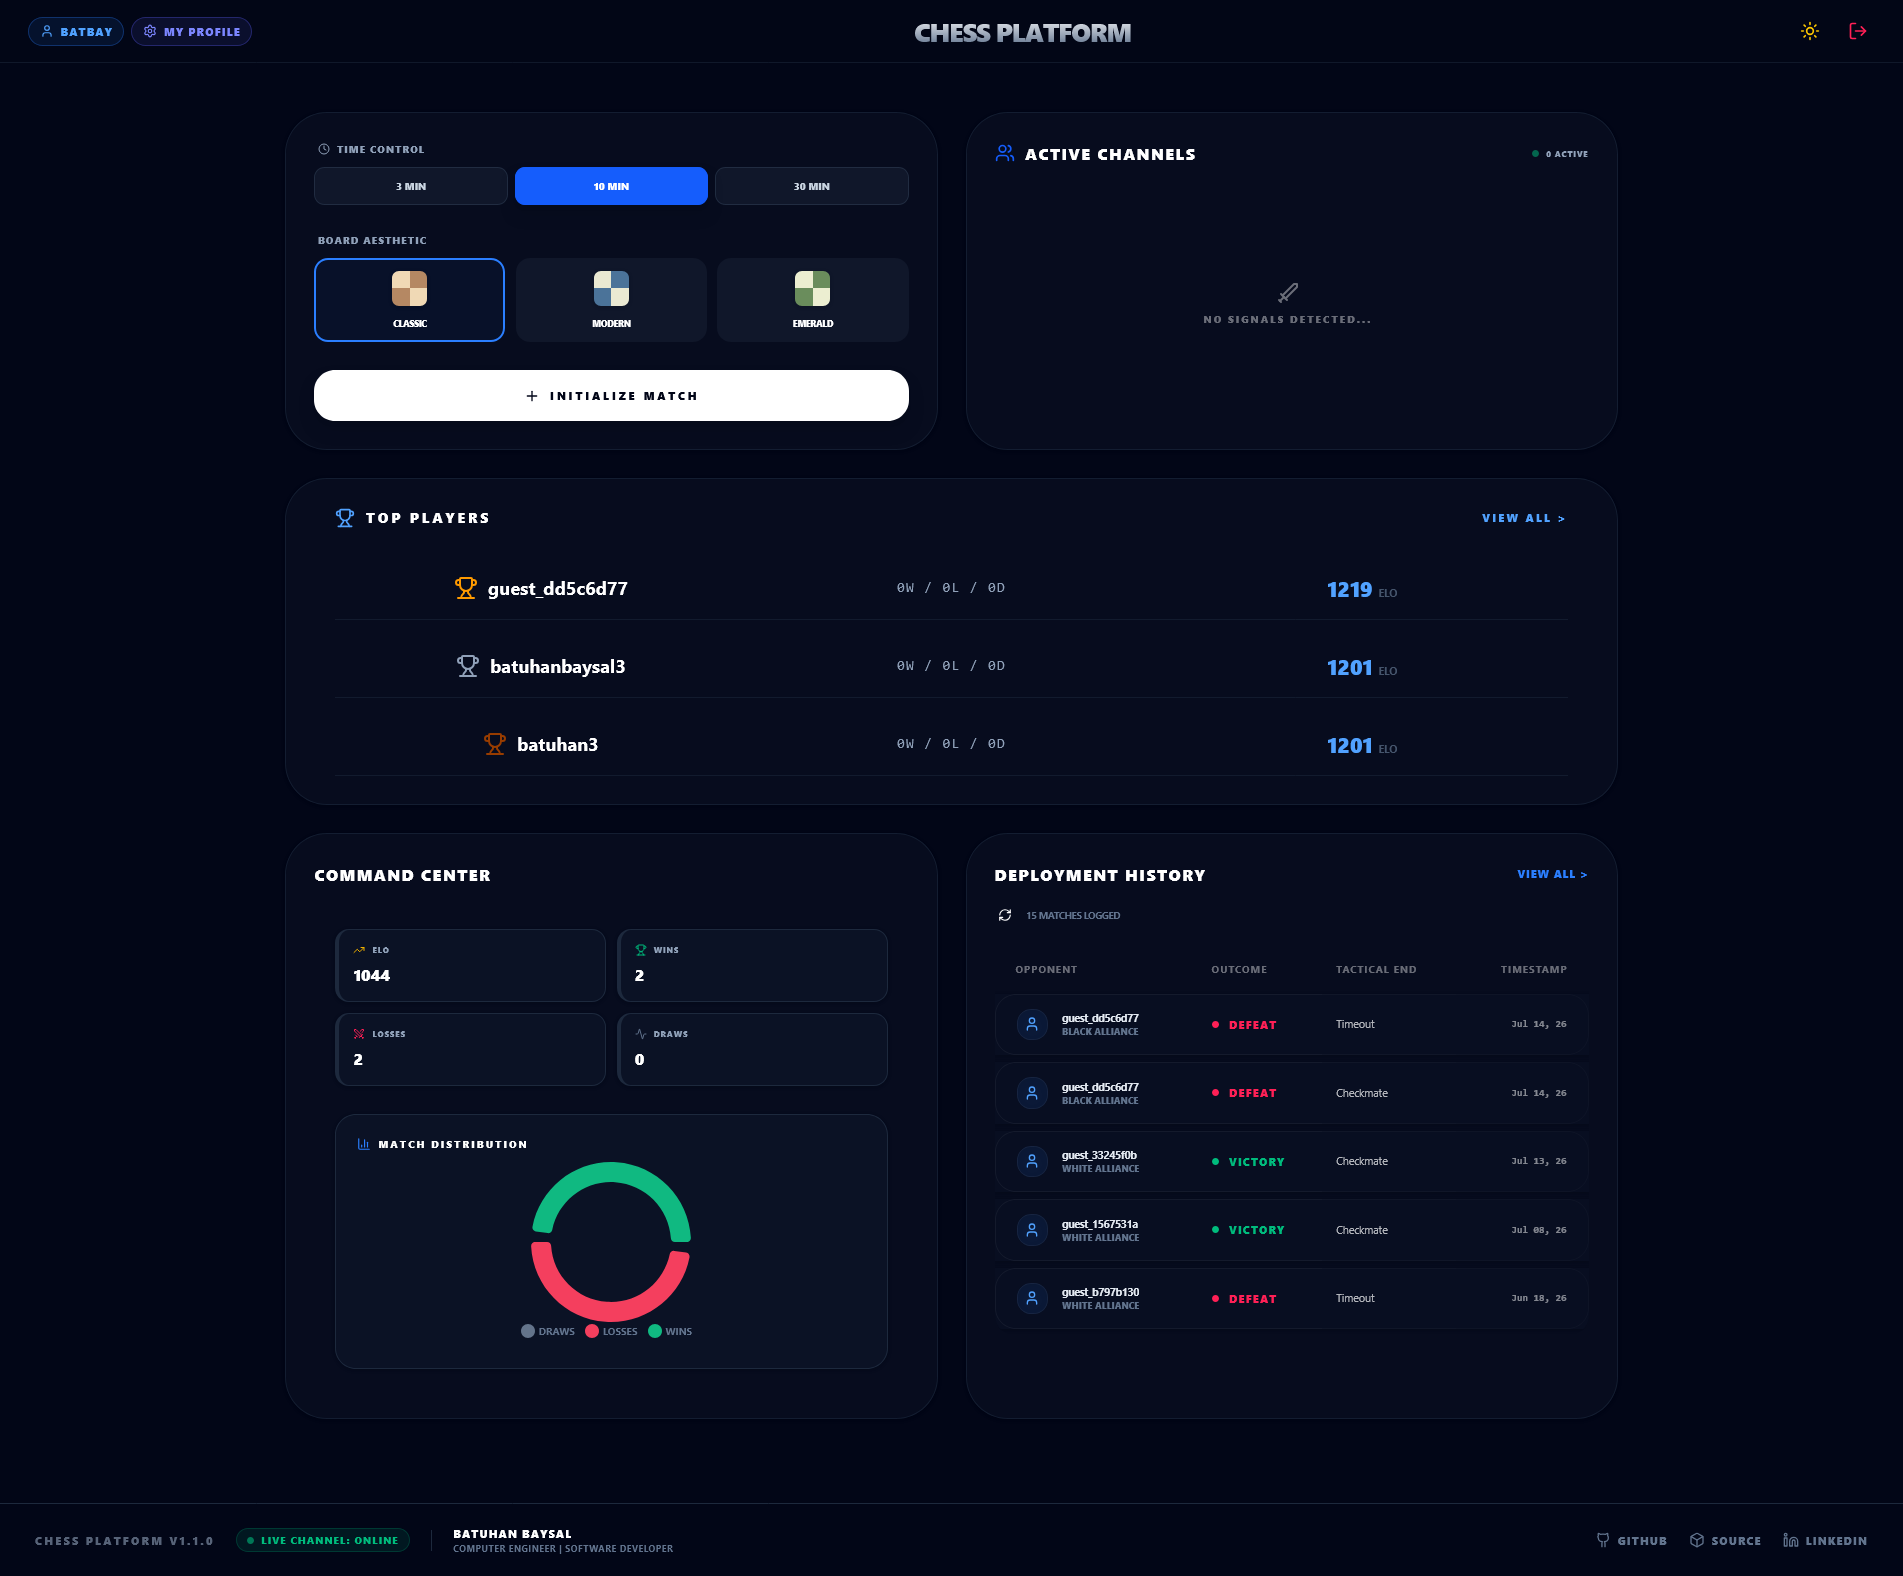
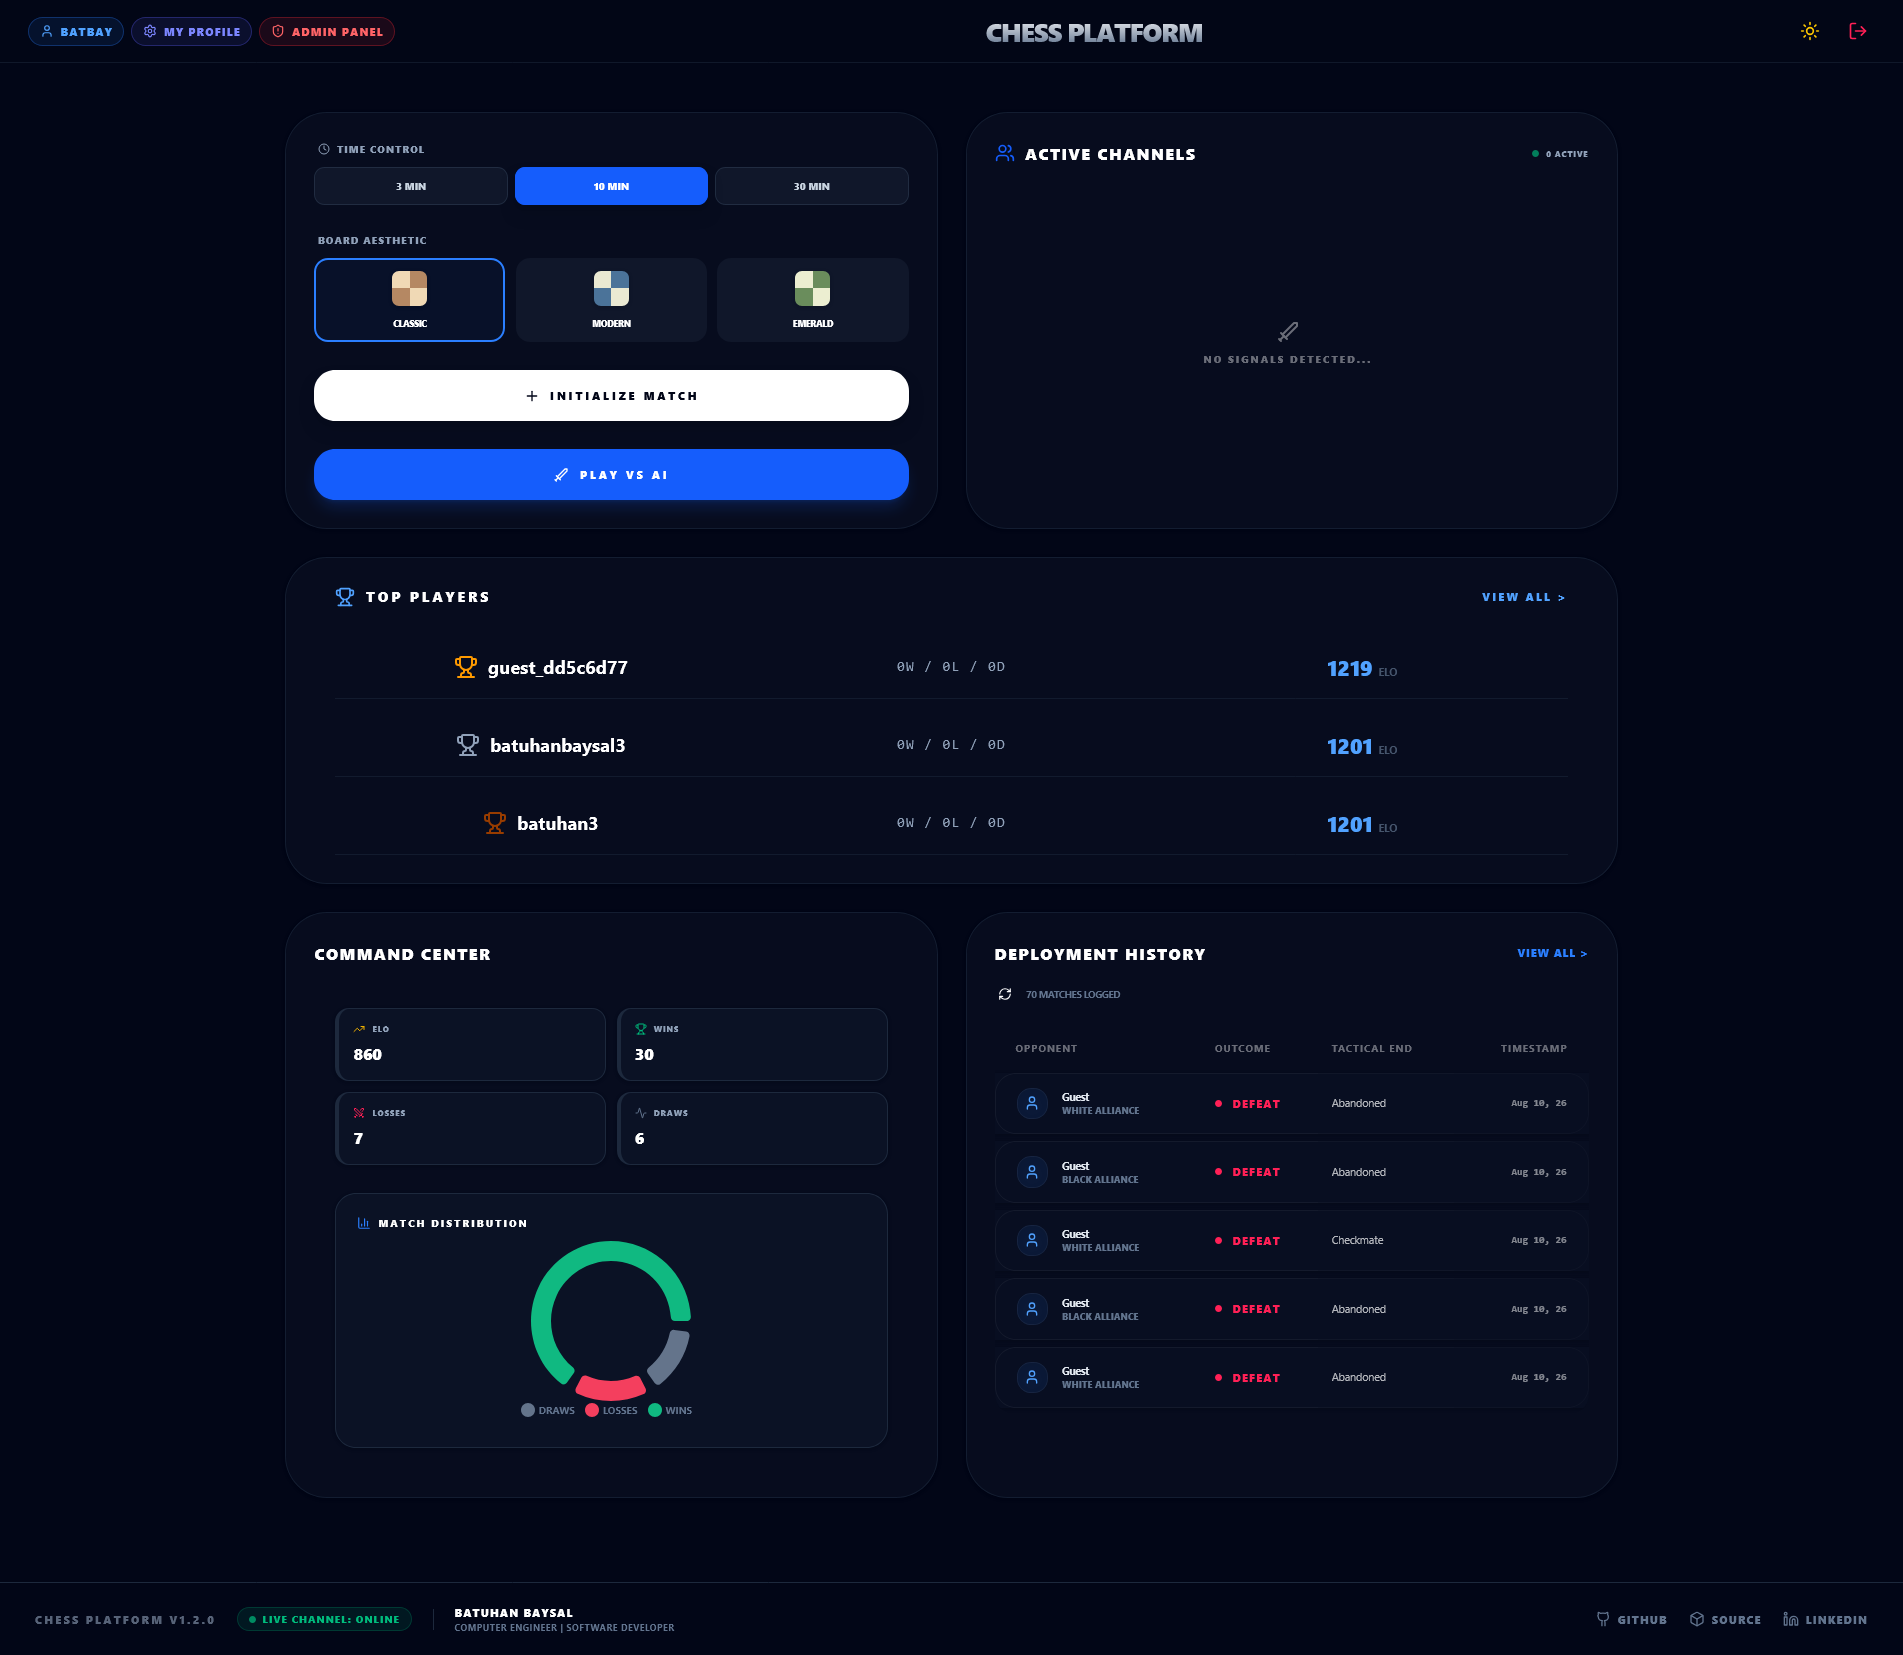
docs: update menu screenshots and changelog for AI play feature

diff --git a/docs/CHANGELOG.md b/docs/CHANGELOG.md
@@ -30,13 +30,20 @@ All notable changes to this project will be documented in this file. This projec
 
 ---
 
-## [2.0.0] - 2026-08-07
+## [2.0.0] - 2026-08-11
 
 ### 🚀 Phase 19: AI Integration & Training Ecosystem 🤖 (v2.0.0)
 > **Note:** Expanding the training ecosystem with automated computer opponent capabilities powered by the Stockfish chess engine.
 
+- **2026-08-11:**
+    - **Play vs AI Time Control & Enhancements (PR #115 | Issue #112):**
+        - Updated the `/api/games/vs-ai` backend endpoint and `GameService` to accept and enforce custom `timeLimit` parameters (e.g., 3, 10, or 30 minutes) selected from the main menu.
+        - Refined backend AI trigger methods and lobby time resolution logic to ensure single-player sessions initialize with accurate user-configured durations.
+        - Updated the frontend `useChess` hook and `LandingPage` components to securely forward time control and difficulty settings to the AI initialization pipeline.
+        - Fixed and aligned unit test parameter definitions to match the updated service method signatures.
+
 - **2026-08-07:**
-    - **Stockfish Chess Engine Integration (PR #111 | Issue #107):**
+    - **Stockfish Chess Engine Integration (PR #108 | Issue #107):**
         - Implemented `StockfishService` to manage UCI protocol communication, process lifecycle, and engine execution.
         - Bundled the Stockfish binary (`chess-backend/src/main/resources/engine/stockfish.exe`) into backend resources for robust local and environment-agnostic support.
         - Integrated AI move triggers into `GameService` to automatically calculate and respond with best moves during single-player sessions.
